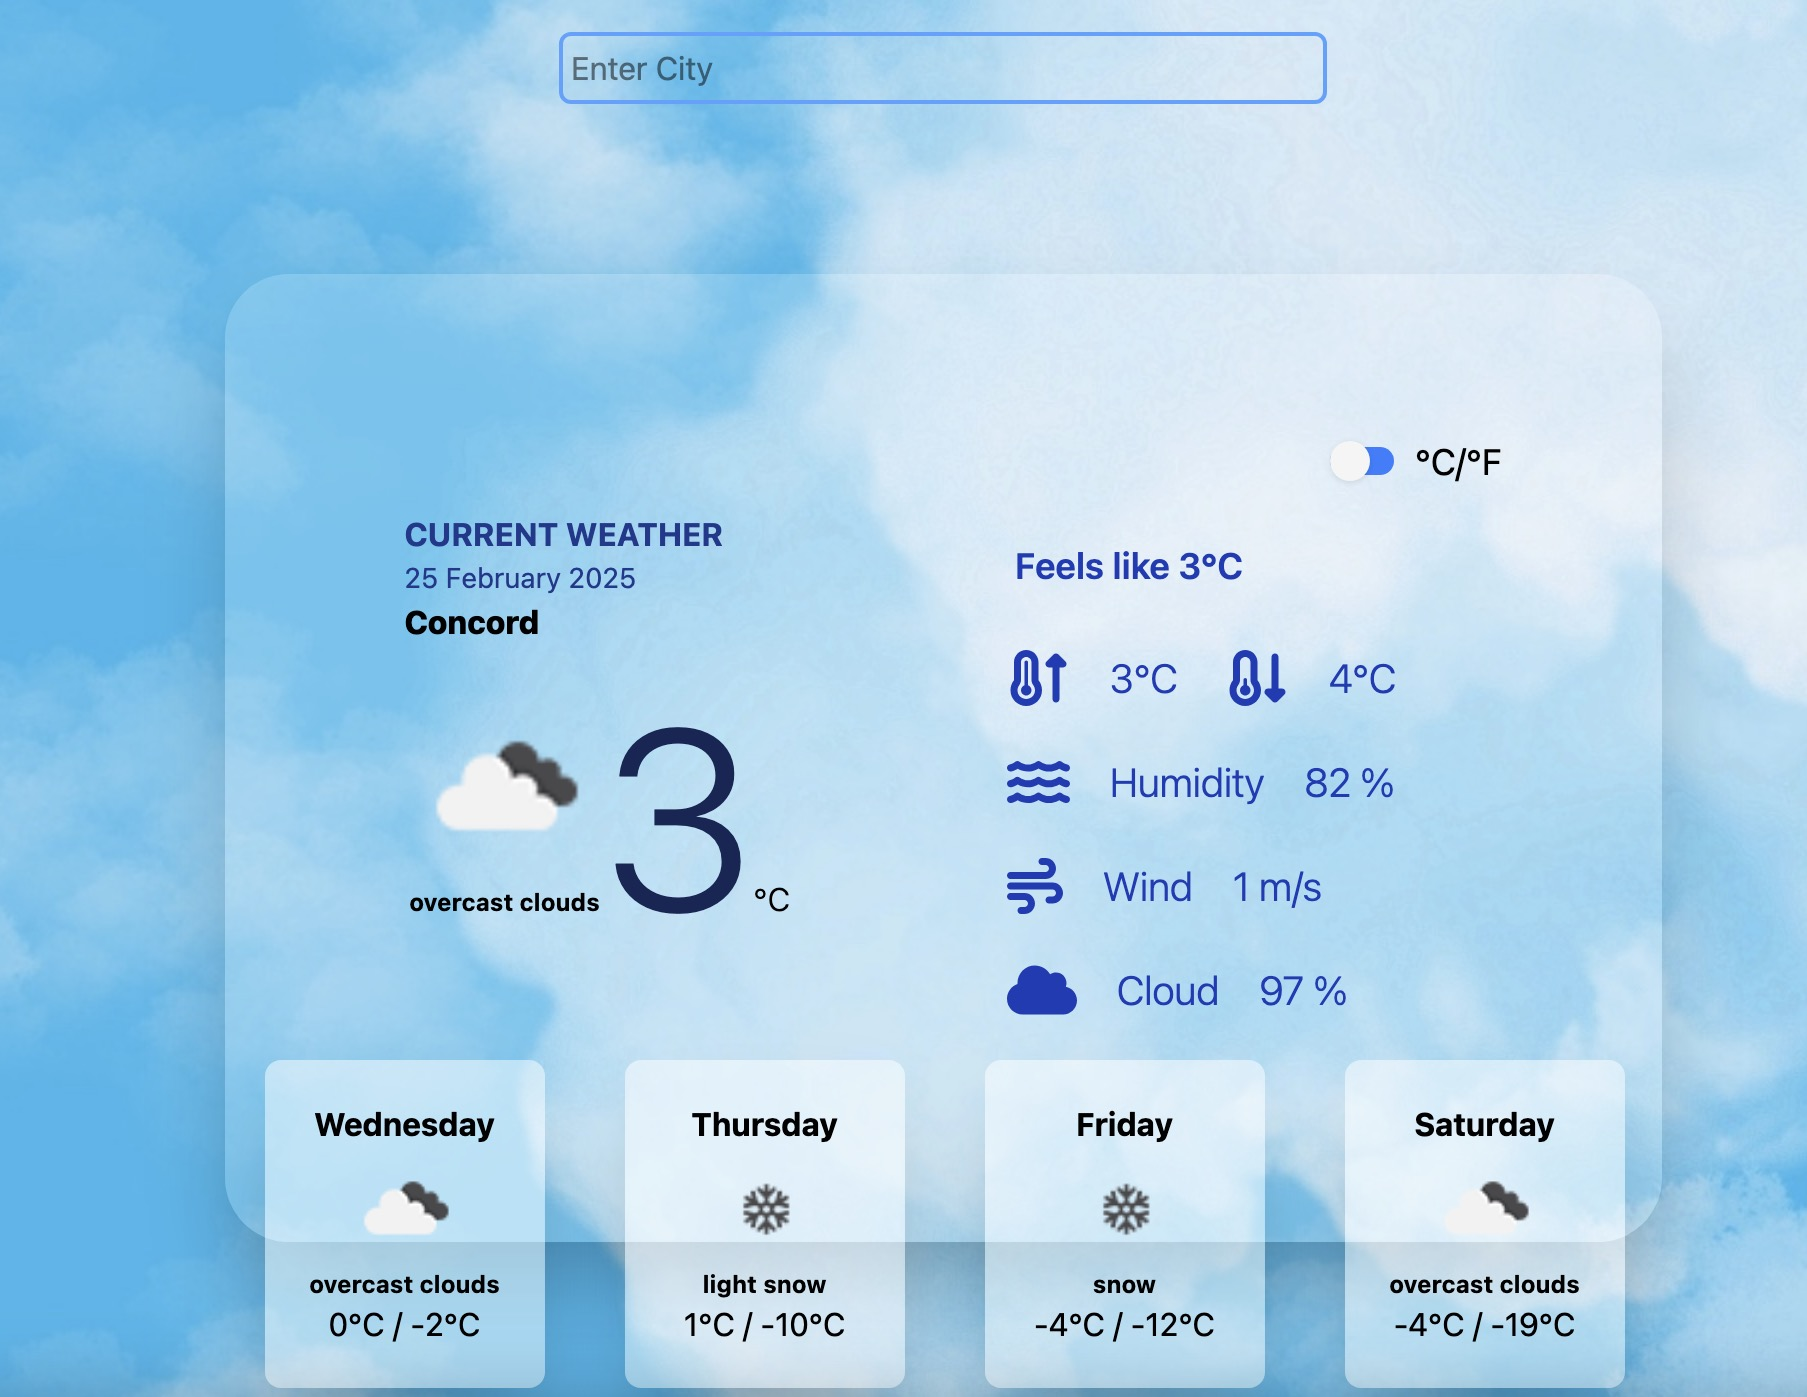
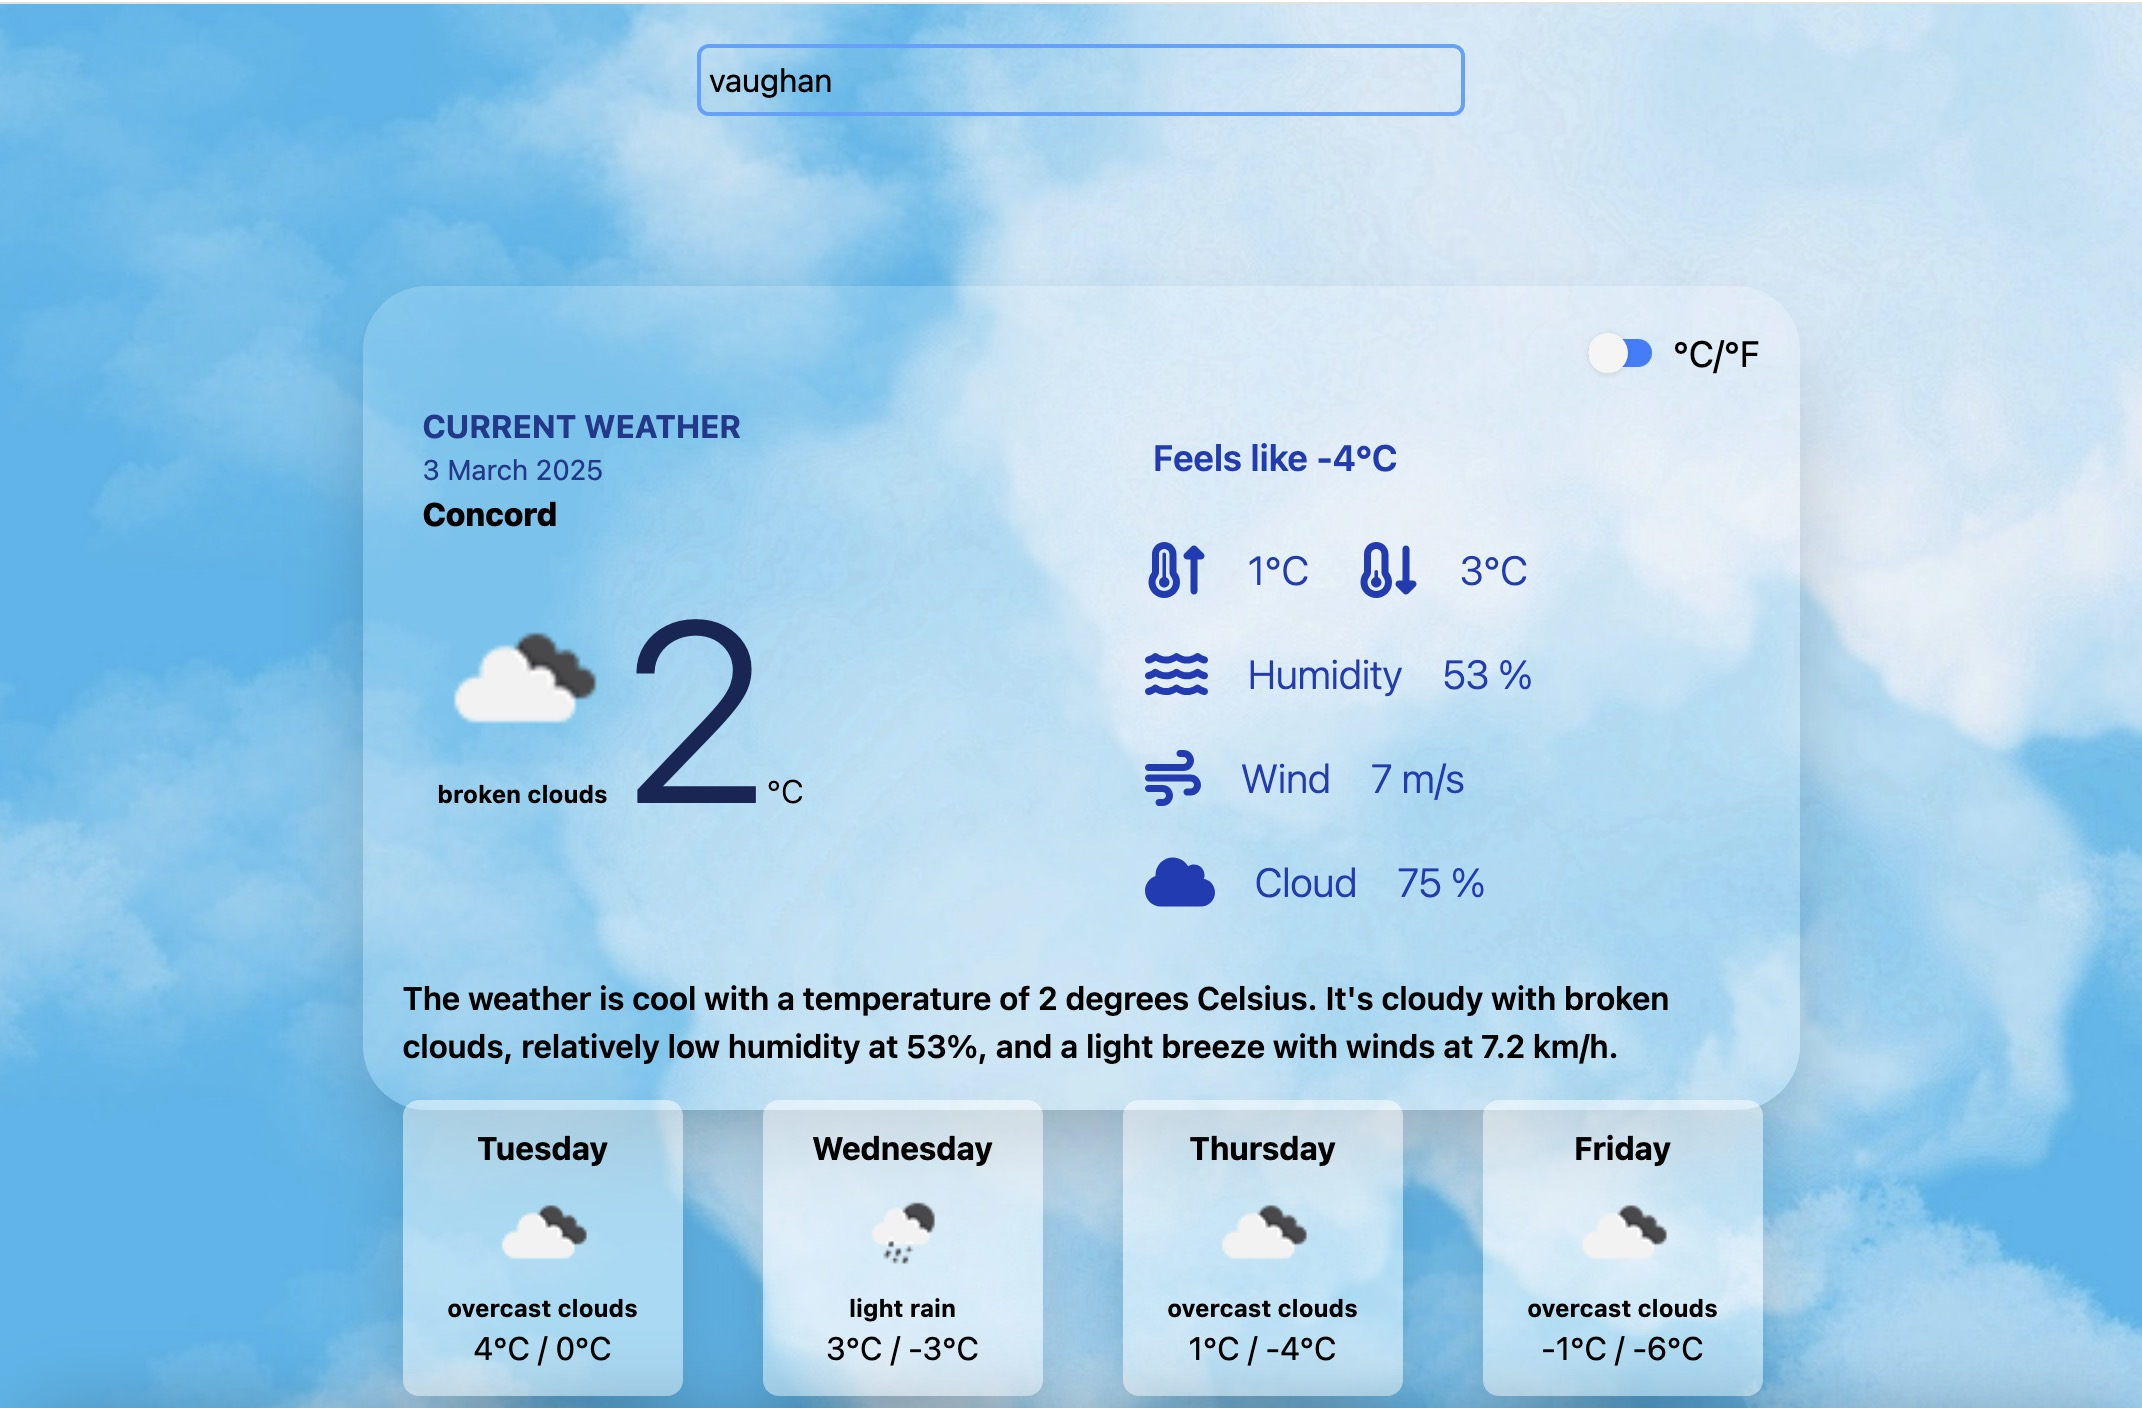
updated project summary

diff --git a/src/assets/Project.js b/src/assets/Project.js
@@ -34,6 +34,6 @@ export const Projects = [
     title: "Weather App",
     img: `./images/weather.jpg`,
     githubLink:'https://github.com/gopikalakshmia/weatherapp-react',
-    skills: `Developed a Weather App using  React,custom hooks and OpenWeather API`,
+    skills: `A weather application built with React,custom hooks,OpenWeather API,and Gemini AI for generating weather summaries`,
   },
 ];
